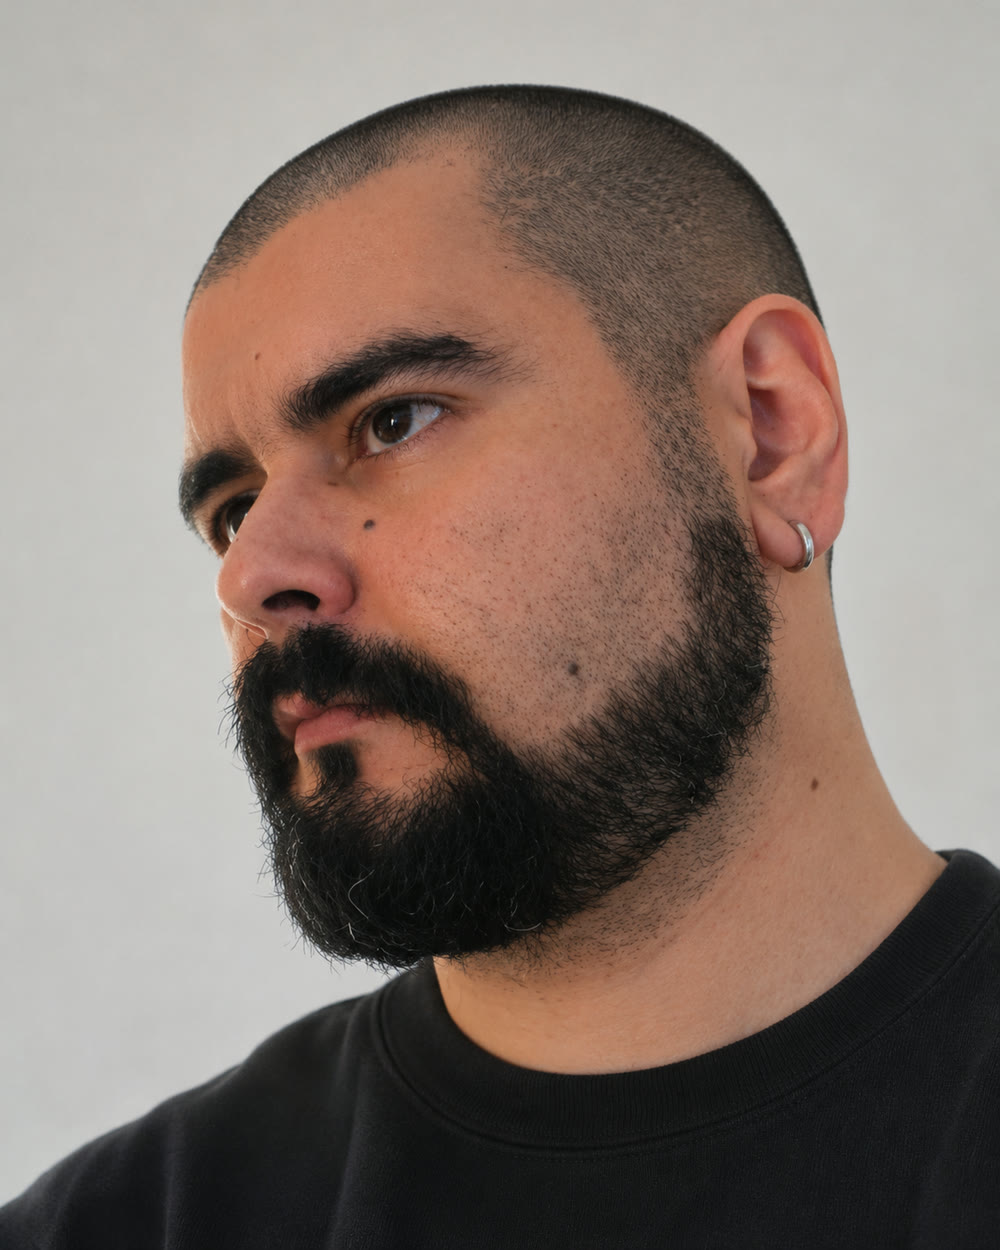
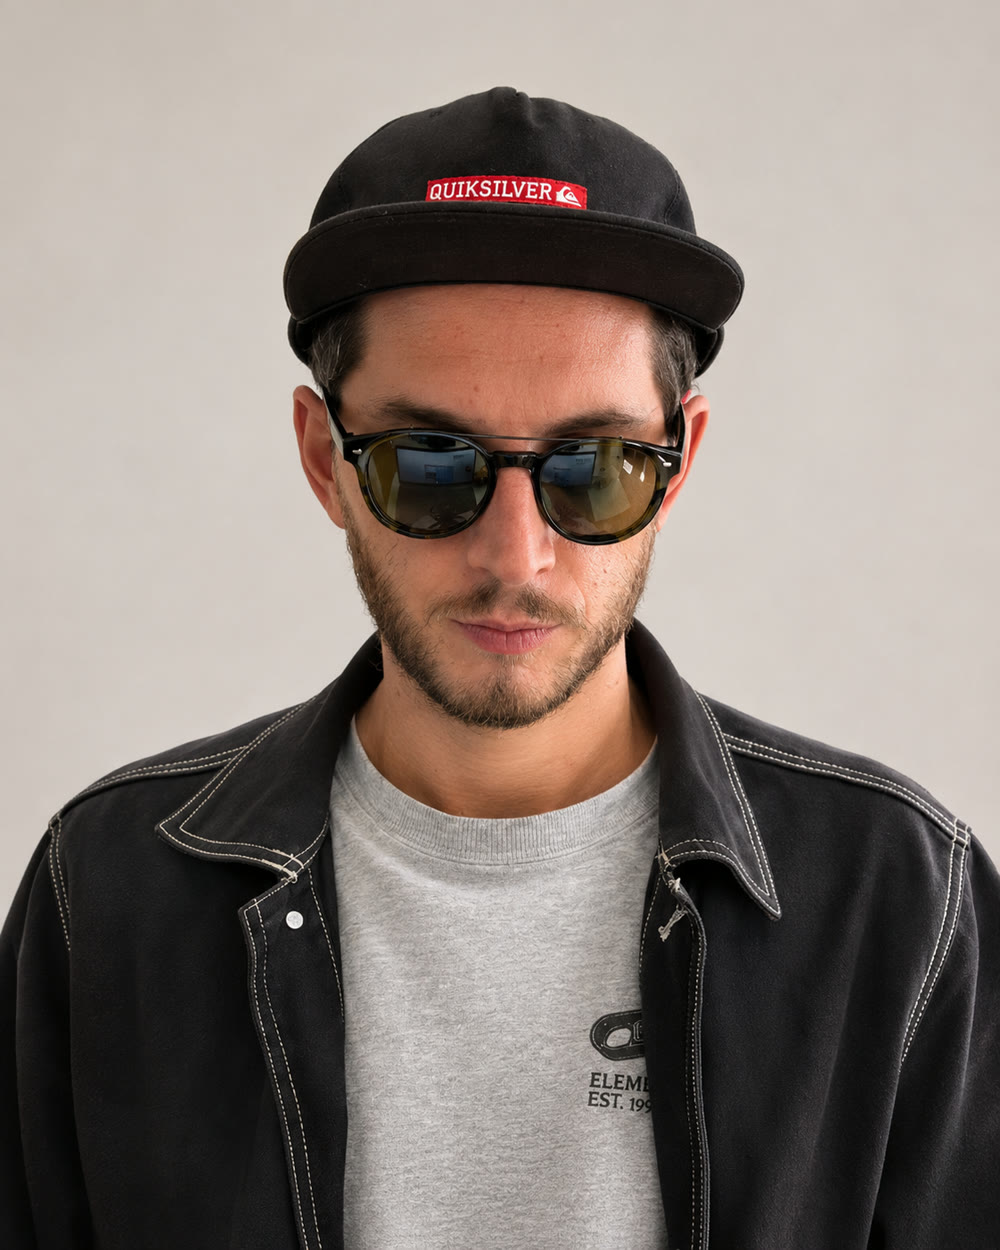
/headshot: before/after on Nico's photo

diff --git a/portfolio-photos/index.html b/portfolio-photos/index.html
@@ -137,9 +137,9 @@ Anything I write after the code is an extra note for that edit.</pre>
   <section class="code" aria-labelledby="c5">
     <div class="code-top"><span class="num">06 / 06</span><button type="button" class="ghost" data-copy-text="/headshot">Copy /headshot</button></div>
     <h3 id="c5">/headshot</h3>
-    <p>A random selfie becomes a portrait for your About page. Same face.</p>
+    <p>A random photo becomes a portrait for your About page. Same face, same clothes. Me again, from the same café photo.</p>
     <p class="use">Use it for: About pages, speaker bios, LinkedIn.</p>
-    <div class="ba"><img src="img/headshot-before.jpg" alt="Before: a close-up selfie in a messy room" loading="lazy"><img class="after" src="img/headshot-after.jpg" alt="After: the same man in a clean portrait with soft light and a plain background" loading="lazy"><span class="bar"></span><span class="tag b">Before</span><span class="tag a">After</span><input type="range" min="0" max="100" value="50" aria-label="Compare before and after for /headshot"></div>
+    <div class="ba"><img src="img/headshot-before.jpg" alt="Before: the same café phone photo of Nico behind a laptop" loading="lazy"><img class="after" src="img/headshot-after.jpg" alt="After: Nico in a clean waist-up portrait on a plain light background, same face, cap and glasses" loading="lazy"><span class="bar"></span><span class="tag b">Before</span><span class="tag a">After</span><input type="range" min="0" max="100" value="50" aria-label="Compare before and after for /headshot"></div>
   </section>
 
   <h2>Tips &amp; limits</h2>
@@ -159,7 +159,7 @@ Anything I write after the code is an extra note for that edit.</pre>
 </main>
 <footer>
   <p>Made by The Notorious RGB. Codes tested on 17 Nov 2026.</p>
-  <p>/facelock photo: Nico, behind TNR. Before photos: Andrew Bird poster by -ep-, coffee pouch by Infrogmation, selfie by orsorama, all <a href="https://creativecommons.org/licenses/by/2.0/">CC BY 2.0</a>, via Openverse. The Cold Swell poster and the Render Club Berlin site are our designs.</p>
+  <p>/facelock and /headshot photo: Nico, behind TNR. Before photos: Andrew Bird poster by -ep-, coffee pouch by Infrogmation, both <a href="https://creativecommons.org/licenses/by/2.0/">CC BY 2.0</a>, via Openverse. The Cold Swell poster and the Render Club Berlin site are our designs.</p>
 </footer>
 <div class="toast" role="status" aria-live="polite" hidden></div>
 <script>
